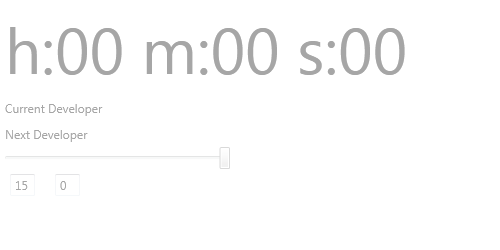
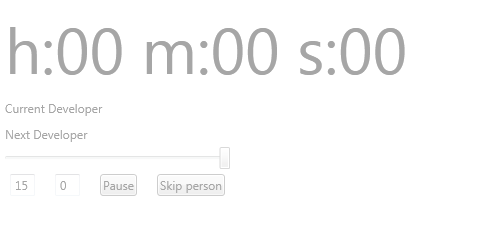
add pause and skip

diff --git a/DeveloperTimer/MainWindow.xaml b/DeveloperTimer/MainWindow.xaml
@@ -64,6 +64,15 @@
             <StackPanel Orientation="Horizontal">
                 <TextBox Name="txtMinutes" Text="0" Width="25" />
                 <TextBox Name="txtSeconds" Text="0" Width="25"  />
+                <Grid Name="gridRunningButtons">
+                    <Grid.ColumnDefinitions>
+                        <ColumnDefinition Width="Auto" />
+                        <ColumnDefinition Width="Auto" />
+                    </Grid.ColumnDefinitions>
+                    <Button Content="Pause" Name="btnPause" Grid.Column="0" Click="btnPause_Click"  />
+                    <Button Content="Skip person" Name="btnRunningSkip" Grid.Column="1" Click="btnSkip_Click"/>
+                </Grid>
+                
             </StackPanel>
         </StackPanel>
         

diff --git a/DeveloperTimer/MainWindow.xaml.cs b/DeveloperTimer/MainWindow.xaml.cs
@@ -281,7 +281,7 @@ namespace DeveloperTimer
             nameRing.RemoveAt(lbNames.SelectedIndex);
             if (nameRing.Any())
             {
-                lbNames.SelectedIndex = priorSelectedIndex%lbNames.Items.Count;
+                lbNames.SelectedIndex = priorSelectedIndex % lbNames.Items.Count;
             }
             SetNextDeveloperMessage();
         }
@@ -349,6 +349,17 @@ namespace DeveloperTimer
             IncrementDeveloperIndex();
             SetNextDeveloperMessage();
             ResetTimer();
+        }
+
+        private void btnPause_Click(object sender, RoutedEventArgs e)
+        {
+            EndSession();
+        }
+
+        private void EndSession()
+        {
+            endTime = DateTime.Now;
+            UpdateUI(lblTime);
         }
     }
 }
